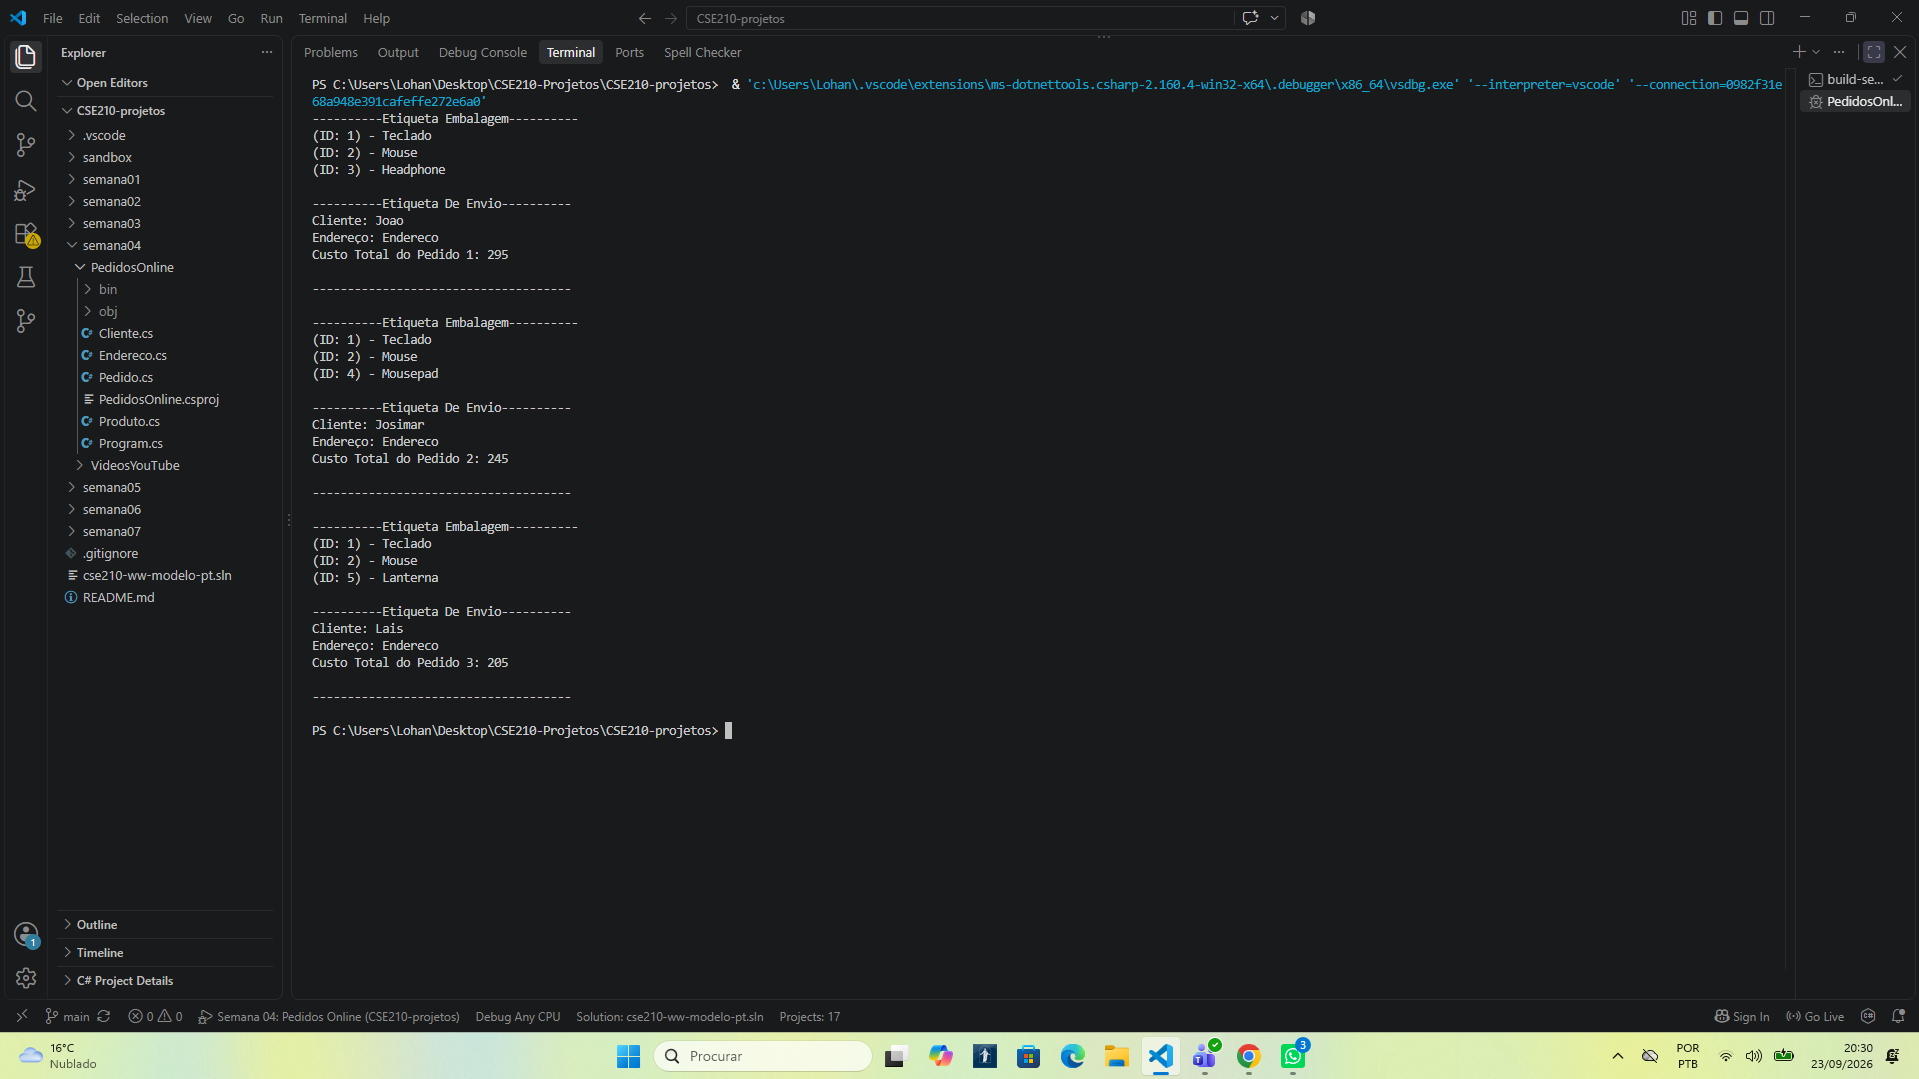
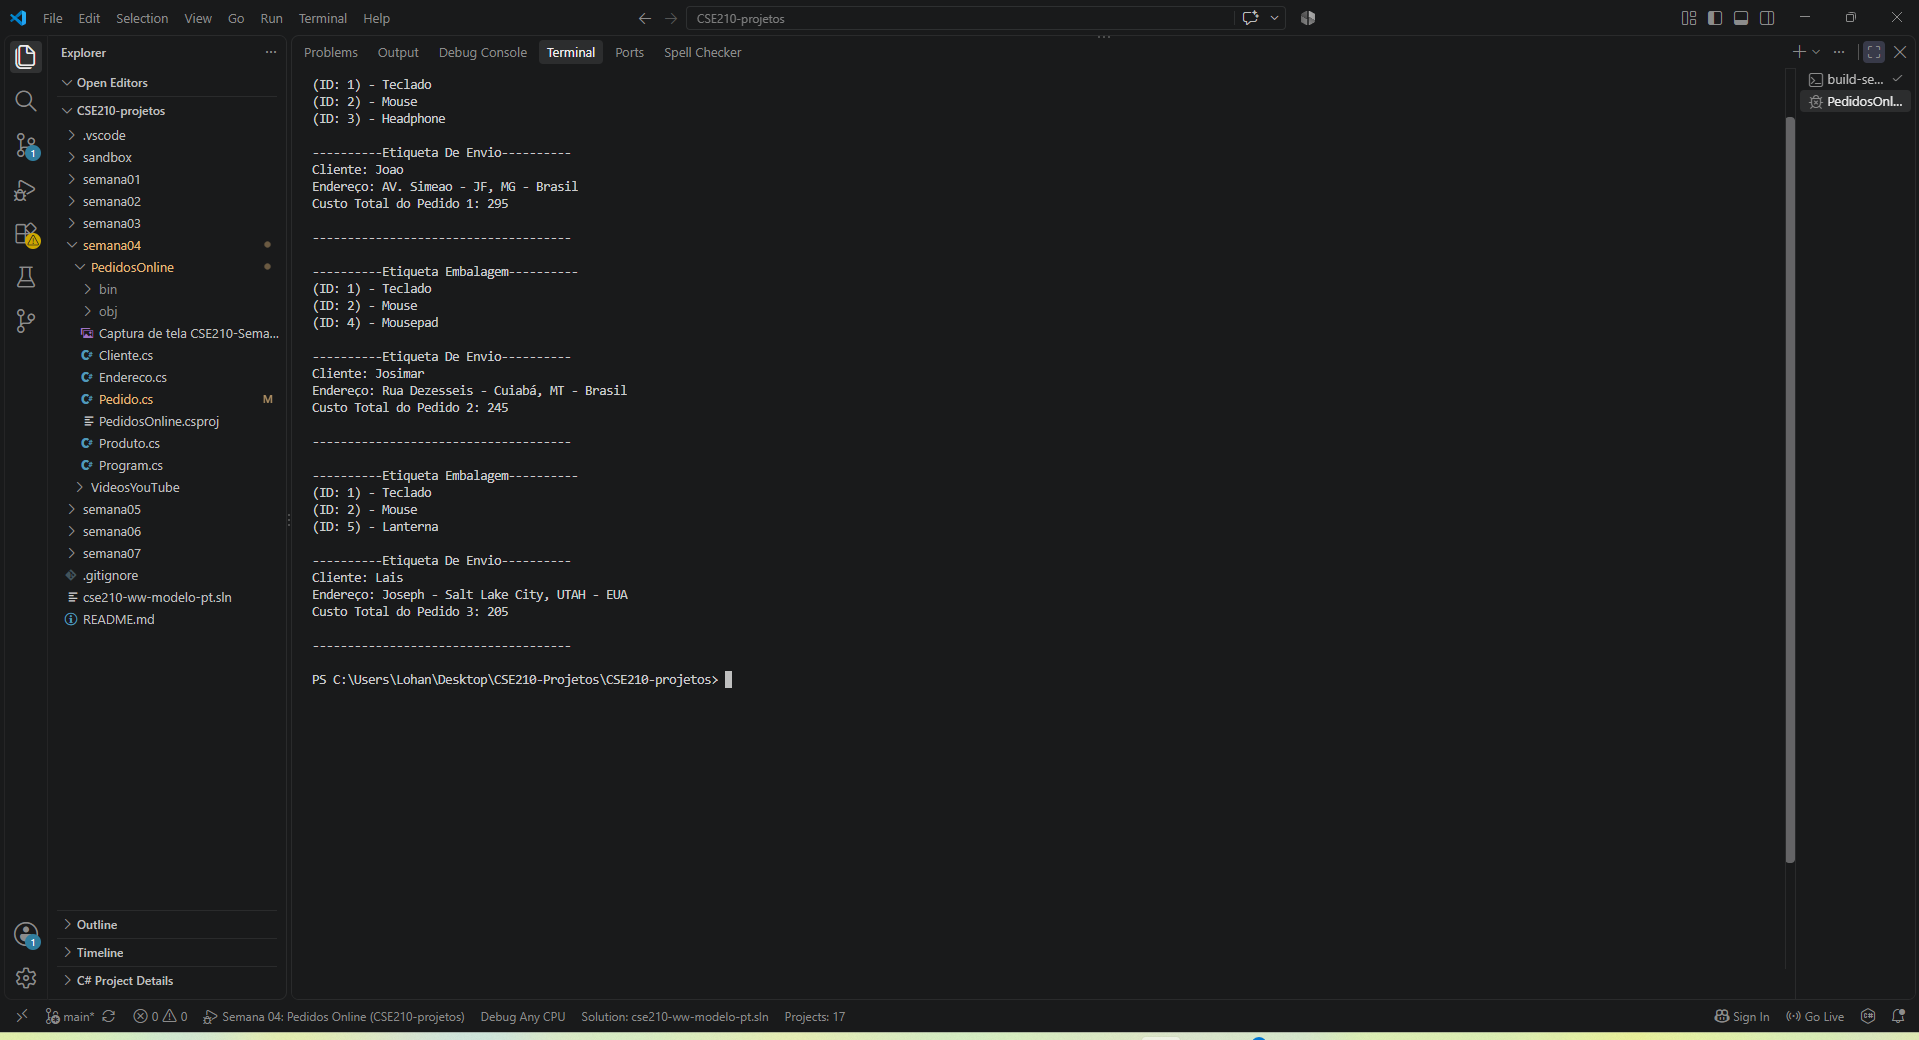
Correções.

diff --git a/semana04/PedidosOnline/Pedido.cs b/semana04/PedidosOnline/Pedido.cs
@@ -44,7 +44,7 @@ public class Pedido
     {
         string etiqueta = "----------Etiqueta De Envio----------\n";
         etiqueta += $"Cliente: {_cliente.ObterNome()}\n";
-        etiqueta += $"Endereço: {_cliente.ObterEndereco()}";
+        etiqueta += $"Endereço: {_cliente.ObterEndereco().ObterEnderecoCompleto()}";
 
         return etiqueta;
     } 
